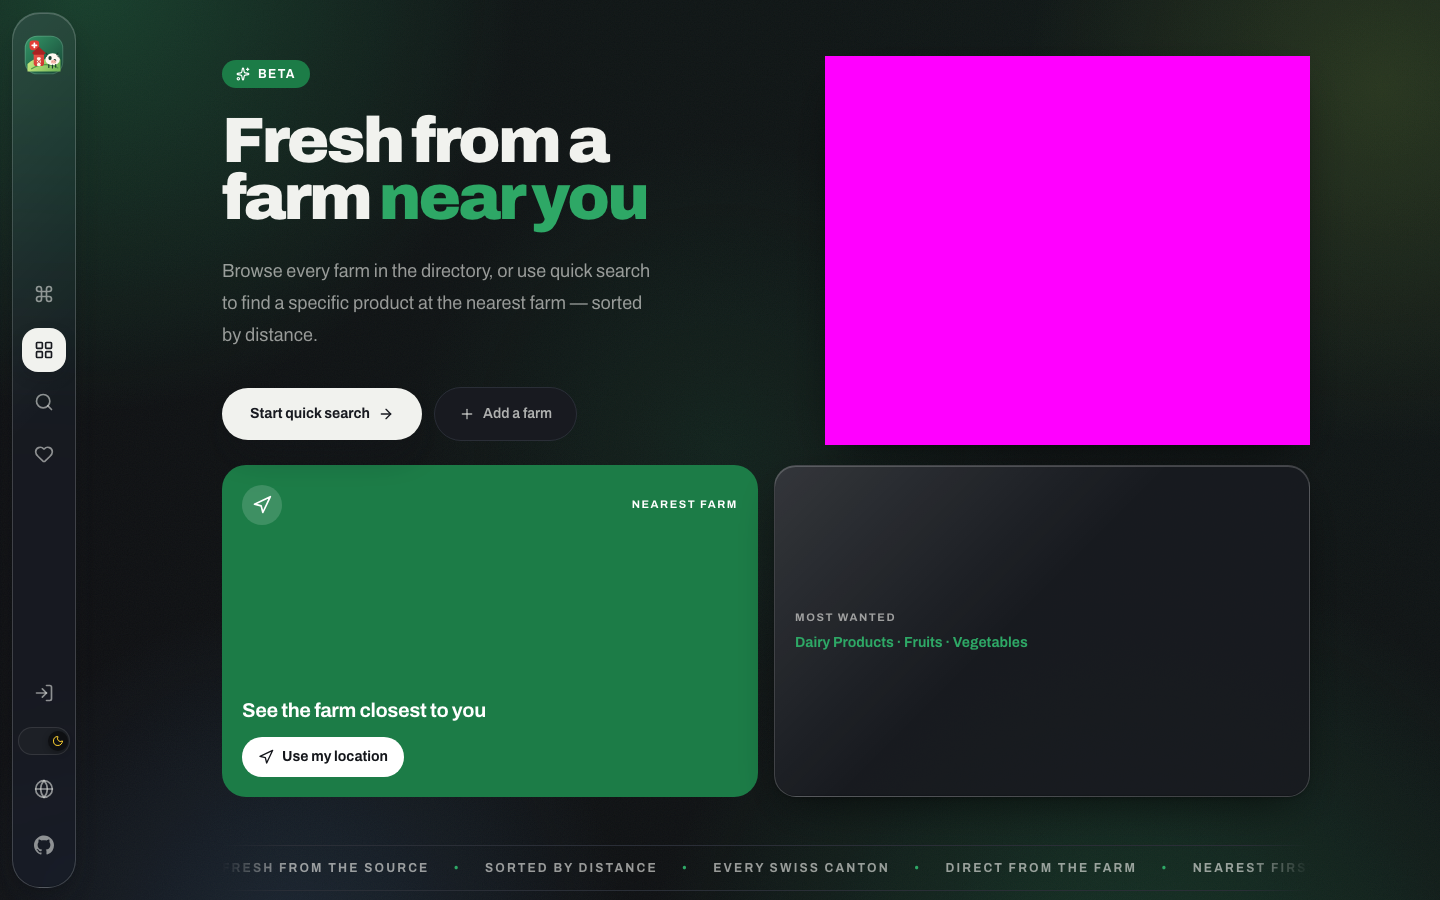
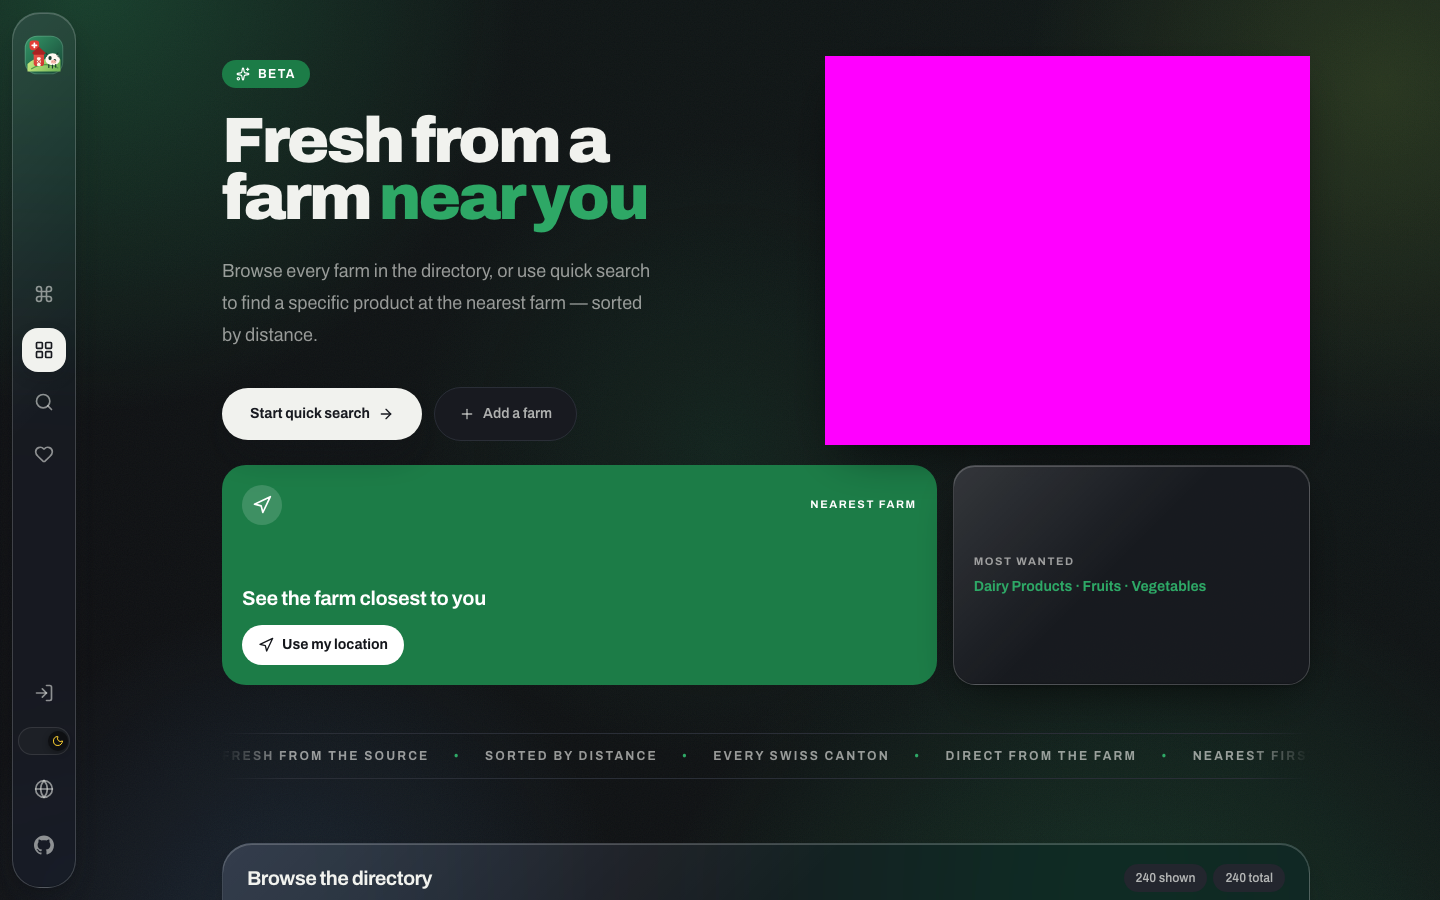
polish(home): compact single-row bento — no dead space
The most-wanted tile sat in a 2×2 cell with lots of air. Grid placement moves
out of NearestFarmCard (it was carrying col-span/row-span for the old 4-col
bento) and into BentoOverview, which is now one balanced row: nearest-farm at
2fr, most-wanted at 1fr, equal heights. Home baselines regenerated.

Changed region(s): [[0.1562, 0.4978, 0.8438, 0.9022], [0.5, 0.9333, 0.9062, 0.9956], [0.1562, 0.9333, 0.4688, 1.0]]

diff --git a/components/NearestFarmCard.tsx b/components/NearestFarmCard.tsx
@@ -93,12 +93,12 @@ export default function NearestFarmCard({
   };
 
   const cardClassName =
-    "col-span-2 flex min-h-[220px] flex-col justify-between rounded-[24px] bg-pine-surface p-5 text-white sm:row-span-2 sm:min-h-0";
+    "flex min-h-[220px] flex-col justify-between rounded-[24px] bg-pine-surface p-5 text-white";
 
   if (status === "ready" && nearest) {
     return (
       <>
-        <div className="group col-span-2 flex min-h-[220px] flex-col justify-between rounded-[24px] bg-pine-surface p-5 text-white sm:row-span-2 sm:min-h-0">
+        <div className="group flex min-h-[220px] flex-col justify-between rounded-[24px] bg-pine-surface p-5 text-white">
           <div className="flex items-center justify-between gap-3">
             <span className="inline-flex items-center gap-1.5 rounded-full bg-white/15 px-3 py-1.5 text-xs font-bold">
               <Navigation className="h-3.5 w-3.5" />

diff --git a/components/home/BentoOverview.tsx b/components/home/BentoOverview.tsx
@@ -26,10 +26,10 @@ export default function BentoOverview({
   const { locale } = useLanguage();
 
   return (
-    <Reveal className="mt-5 grid grid-cols-2 gap-4 sm:grid-cols-4 sm:[grid-auto-rows:158px]">
+    <Reveal className="mt-5 grid items-stretch gap-4 sm:grid-cols-[2fr_1fr]">
       <NearestFarmCard farms={farms} onOpenFarm={onOpenFarm} />
 
-      <div className="glass glass-card col-span-2 flex min-h-[120px] flex-col justify-center gap-2 rounded-[22px] px-5 py-4 sm:row-span-2">
+      <div className="glass glass-card flex min-h-[120px] flex-col justify-center gap-2 rounded-[22px] px-5 py-4">
         <p className="text-[11px] font-bold uppercase tracking-[0.14em] text-ink/60">
           {t("bento_mostWanted")}
         </p>